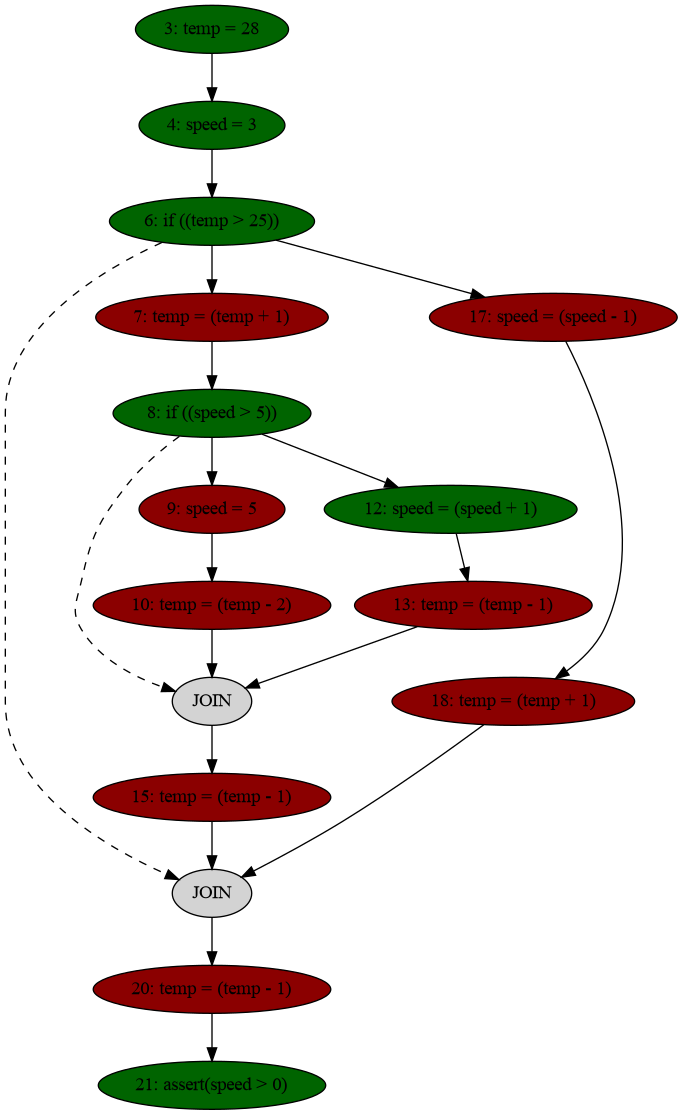
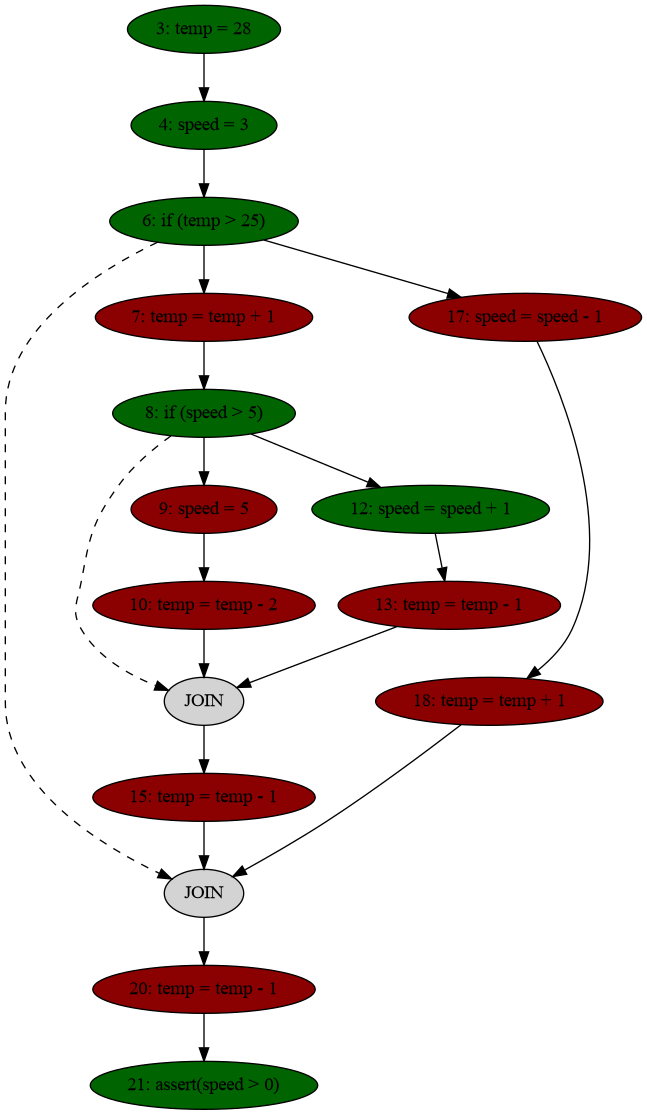
Update tutorial and readme

diff --git a/docs/TUTORIAL.md b/docs/TUTORIAL.md
@@ -202,6 +202,18 @@ Branch coverage: 2/4 (50.00%)
 * The fan controller has four branches (lines 6 and 8, `then` and `else` for each). The
   proof uses the `then` side of line 6 and the `else` side of line 8.
 * When the program has no `if` statements, proofcov prints `0/0 (no branches)`.
+* Only the `if` statements of your program are branches. The conditions proofcov generates
+  itself, for `?:`, for truth values assigned to integers and for array reads with a variable
+  index (see [section 9](#9-which-programs-are-supported)), are not counted.
+* An `if` that a function contains counts once, however many times the function is called.
+* Coverage is measured per line, so two `if` statements on the same line can't be told
+  apart. Their branches count as one, and proofcov prints a warning on stderr:
+
+  ```
+  Warning: line 6 has more than one if-statement, their branches are counted as one
+  ```
+
+  Put each `if` on its own line to measure them separately.
 
 ### Exit codes
 
@@ -209,7 +221,7 @@ Branch coverage: 2/4 (50.00%)
 | --- | --- |
 | `0` | The assertion was proved and coverage was reported |
 | `1` | The assertion can fail (`Test fail`), see [section 8](#8-when-the-assertion-can-fail) |
-| `2` | The program uses an unsupported construct, or `gcc` failed to preprocess it |
+| `2` | proofcov could not analyze the program: the file does not exist, it is not valid C, it uses an unsupported construct (see [section 9](#9-which-programs-are-supported)) or `gcc` failed to preprocess it |
 
 ---
 
@@ -299,8 +311,6 @@ python proofcov/proofcov.py examples/fan.c --line --graph
 Generating control flow graph at tmp/fan.png
 Line coverage: 6/14 (42.86%)
 Generating control flow graph (line coverage) at tmp/fan_line.png
-Marked lines:
-[3, 4, 6, 8, 12, 21]
 ```
 
 Two PNG files are written to `tmp/`, relative to the directory you run proofcov from:
@@ -346,8 +356,6 @@ python proofcov/proofcov.py examples/or_in_assert.c --all --enumerate-cores
 
 ```
 [proofcov] Opening file examples/or_in_assert.c
-MUS:  ['a_line6_0.0', 'a_line8_0.0']
-MUS:  ['a_line5_0.0', 'a_line8_0.0']
 ╭──────────╮
 │ Core 1/2 │
 ╰──────────╯
@@ -360,10 +368,8 @@ Line coverage: 2/3 (66.67%)
 Branch coverage: 0/0 (no branches)
 ```
 
-Each `MUS:` line (*minimal unsatisfiable subset*) lists the named constraints of one core.
-`a_lineN_...` is a statement on line `N`, and `a_phi.if.L.x` / `a_phi.else.L.x` is the
-`then` / `else` side of the `if` on line `L` assigning `x`. After them comes one panel per
-core with its coverage.
+There is one panel per core with its coverage. Both cores cover two of the three lines: one
+uses lines 6 and 8, the other lines 5 and 8. Add `-v` to see the lines of each core.
 
 On the fan controller the two proofs give different branch coverage. The second proof
 also uses line 17 in the `else` branch of the outer `if`:
@@ -423,7 +429,8 @@ rewrites the program into this subset (see [`proofcov/normalize.py`](../proofcov
 
 * a single `main` function ending in `assert(...)` (`int main(int argc, char *argv[])` is
   accepted too; its arguments are ignored)
-* `int` variables, assignments, arithmetic (`/` and `%` round towards zero as in C)
+* `int` variables, assignments (`=`), arithmetic (`+`, `-`, `*`, `/`, `%`; `/` and `%` round
+  towards zero as in C), comparisons and `&&`, `||`, `!`
 * `if` / `else`, including empty branches
 * integers used as truth values (`if (a)`, `!a`, `a && b`) and truth values assigned to
   integers (`x = a && b;`)
@@ -433,11 +440,20 @@ rewrites the program into this subset (see [`proofcov/normalize.py`](../proofcov
 * functions **without parameters** (they are inlined)
 * `#define` (expanded with `gcc -E`; `#include` lines are ignored)
 
-**Not supported:** loops, pointers and functions with parameters. proofcov stops with exit
-code `2` and a message such as:
+**Not supported:** among others, loops, pointers, functions with parameters, types other
+than `int`, bitwise operators, `++` and `+=`, and truth values used as numbers
+(`x = (a > b) + 1;`). proofcov stops with exit code `2` and a message such as:
 
 ```
 Unsupported statement at line 3: While
+Unsupported operator << at line 3
+```
+
+A program that is not valid C gives a parse error. The position is where the parser got
+stuck, so a missing `;` is reported at the start of the next statement:
+
+```
+Parse error at line 3, column 5: before: assert
 ```
 
 The [`examples/`](../examples) folder contains many small programs to experiment with,
@@ -494,11 +510,12 @@ python tests/run_tests.py
 
 ```
 ...
-56/56 tests passed
+65/65 tests passed
 ```
 
 The test programs are in [`tests/programs/`](../tests/programs). Each one has its expected
-minimal unsat cores listed in `tests/run_tests.py`.
+minimal unsat cores listed in `tests/run_tests.py`, which also checks the coverage numbers,
+the warnings and the error messages for unsupported programs.
 
 ---
 

diff --git a/README.md b/README.md
@@ -4,6 +4,9 @@ A (very) simple prototype for proof-based slicing. It only works for a narrow su
 - Python 3.13.7
 - Python packages (installed below): z3-solver 5.1.0, pycparser 3.0, rich 15.0.0, graphviz 0.21
 - Graphviz (only needed for `--graph`)
+- gcc (only needed for programs with `#define`)
+
+For a step-by-step introduction with examples and an explanation of the output, see the [tutorial](docs/TUTORIAL.md).
 
 ## Installation Instructions
 
@@ -41,7 +44,7 @@ python proofcov/proofcov.py examples/dilemma.c --all
 Line coverage: 6/8 (75.00%)
 Branch coverage: 2/4 (50.00%)
 ```
-If the assertion can fail, ProofCov prints `Test fail` and exits with code 1.
+If the assertion can fail, ProofCov prints `Test fail` and exits with code 1. If the program can not be analyzed (it is not valid C or uses an unsupported construct), ProofCov prints an error message and exits with code 2.
 
 Options:
 - `--line`: report line coverage
@@ -50,7 +53,7 @@ Options:
 - `--enumerate-cores`: find all minimal proofs (unsat cores) and report coverage for each of them, instead of a single one
 - `-v`, `--verbose`: show the program, GOTO code, SMT formula, unsat core and covered lines in detail
 - `--graph`: draw the control flow graph, colored by line coverage, as PNG files in `tmp/`
-- `--experiment`: only print the covered lines (`COVERED: ...`), used by the TCAS experiment
+- `--experiment`: print machine-readable output (`COVERED: ...` and more, see the tutorial), used by the TCAS experiment
 - `--track-undef`: use an alternative encoding which tracks undefined values
 
 ProofCov rewrites the program into the supported subset of C before the analysis (`proofcov/normalize.py`): `#define`, global variables, arrays of constant size, functions without parameters (inlined), `?:` and truth values assigned to integers (`x = a && b;` becomes an if-statement) are supported. Loops, pointers and functions with parameters are not.
